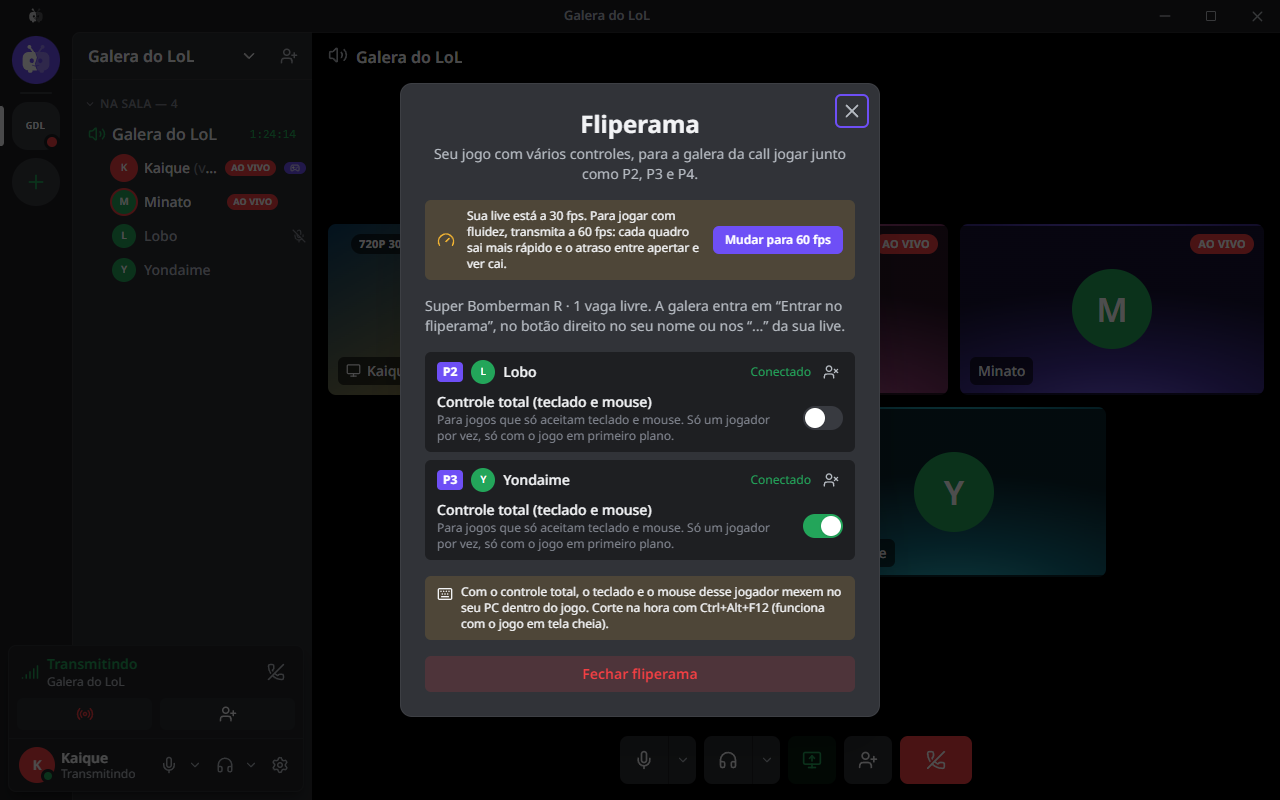
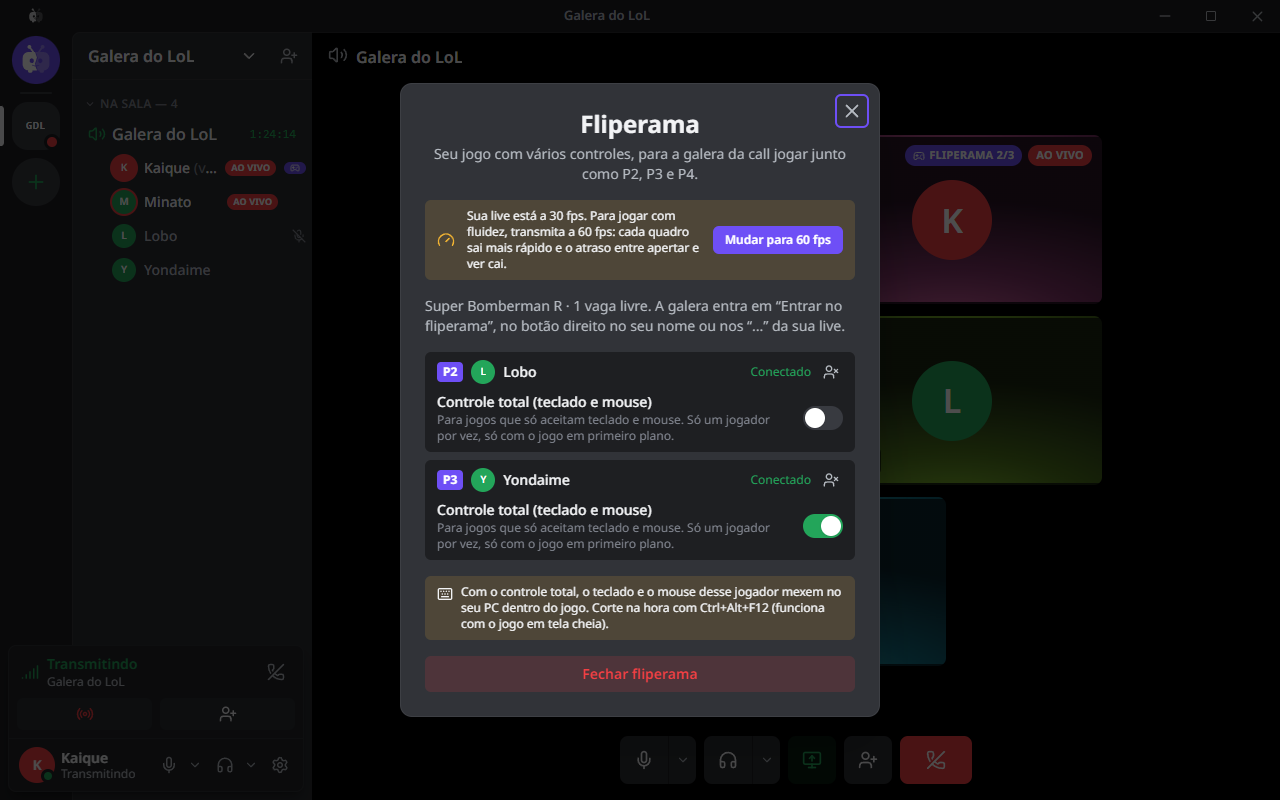
docs(docs): atualiza o README e as capturas para a versão 0.14

diff --git a/README.md b/README.md
@@ -35,7 +35,7 @@
 </p>
 
 > [!NOTE]
-> **Versão 0.11: o Fliperama.** Transmitindo um jogo com vários controles (Bomberman, jogos de luta, party games), abra o **Fliperama** no menu da sua live: até 3 amigos da call entram como P2, P3 e P4 e jogam pela rede, com controle de Xbox, com o teclado (que vira controle) ou com o mouse (que vira o analógico direito). Para jogos só de teclado e mouse, dê o **controle total** a um jogador por vez, com corte em Ctrl+Alt+F12. Também nesta versão: uma queda rápida da conexão não tira mais ninguém da sala nem derruba a voz, quem sai e volta não aparece duas vezes, e um código de sala que não existe avisa "Código inválido" em vez de criar uma sala vazia. **Na 0.11.1:** o botão do jogador chega ao jogo do host com menos de 1 ms de atraso no app (era 9 ms), um selo FLIPERAMA mostra para todos que o fliperama está aberto, e a live termina sozinha quando você fecha o programa que estava transmitindo. **Na 0.12:** dá para entrar no fliperama também pelos "..." da live de quem hospeda, quem entra é sempre o P2 em diante (o P1 é quem hospeda) e a live mostra as teclas que viram cada botão do controle; o tempo da sala conta de quando ela deixou de estar vazia (sair e voltar não zera mais); quem vê a sala do servidor de fora vê quem está mudo ou silenciado; sair da sala encerra a sua live, e o vídeo dela acompanha o quadro na faixa de participantes; o app passa a usar a Noto Sans, com os tamanhos e pesos de texto do Discord; e, com o app aberto, a versão nova aparece também quando você volta para a janela. **Na 0.13:** de fora de uma sala do servidor, você vê todo mundo que está nela, como no Discord, inclusive quem entrou só com o código, com o mudo e o silenciado de cada um. Achou um problema? [Abra uma issue](https://github.com/Kaique292/squadview/issues).
+> **Versão 0.11: o Fliperama.** Transmitindo um jogo com vários controles (Bomberman, jogos de luta, party games), abra o **Fliperama** no menu da sua live: até 3 amigos da call entram como P2, P3 e P4 e jogam pela rede, com controle de Xbox, com o teclado (que vira controle) ou com o mouse (que vira o analógico direito). Para jogos só de teclado e mouse, dê o **controle total** a um jogador por vez, com corte em Ctrl+Alt+F12. Também nesta versão: uma queda rápida da conexão não tira mais ninguém da sala nem derruba a voz, quem sai e volta não aparece duas vezes, e um código de sala que não existe avisa "Código inválido" em vez de criar uma sala vazia. **Na 0.11.1:** o botão do jogador chega ao jogo do host com menos de 1 ms de atraso no app (era 9 ms), um selo FLIPERAMA mostra para todos que o fliperama está aberto, e a live termina sozinha quando você fecha o programa que estava transmitindo. **Na 0.12:** dá para entrar no fliperama também pelos "..." da live de quem hospeda, quem entra é sempre o P2 em diante (o P1 é quem hospeda) e a live mostra as teclas que viram cada botão do controle; o tempo da sala conta de quando ela deixou de estar vazia (sair e voltar não zera mais); quem vê a sala do servidor de fora vê quem está mudo ou silenciado; sair da sala encerra a sua live, e o vídeo dela acompanha o quadro na faixa de participantes; o app passa a usar a Noto Sans, com os tamanhos e pesos de texto do Discord; e, com o app aberto, a versão nova aparece também quando você volta para a janela. **Na 0.13:** de fora de uma sala do servidor, você vê todo mundo que está nela, como no Discord, inclusive quem entrou só com o código, com o mudo e o silenciado de cada um. **Na 0.14:** a sala passa a distribuir o vídeo: quem assiste repassa uma parte da live para os outros, e quem transmite não precisa mandar uma cópia inteira para cada um. Quem está com a internet fraca recebe 720p30 sem atrapalhar os outros. No Fliperama, controles de PlayStation e Switch funcionam, cada jogador vê se o controle dele foi achado, e quem hospeda sem controle continua sendo o P1 no jogo (o amigo é o P2 de verdade). Também: a grade da sala cabe inteira na janela, mesmo larga e baixa. Achou um problema? [Abra uma issue](https://github.com/Kaique292/squadview/issues).
 
 ## ✨ O que ele faz
 
@@ -47,8 +47,10 @@
 - **Só o áudio do jogo.** Transmitindo um jogo ou app, vai só o som dele, e o som acompanha quando o jogo troca de janela; o som da call fica de fora.
 - **A sua live na sala**, como no Discord: transmitindo, a sua tela vira um quadro da sala, com a qualidade e o AO VIVO no canto, desenhados por cima da imagem sem esconder nada dela. Clique para pôr em foco, dois cliques para a tela cheia e o botão direito para parar, trocar o que transmite, mudar a qualidade ou ligar e desligar o som, sem sair do ar. Fechou o programa que estava transmitindo? A live termina sozinha. Os detalhes mostram o último minuto em gráficos (fps, bitrate, latência e encode) e o uso da GPU e da CPU em barras.
 - **Assista várias lives ao mesmo tempo**, como no Discord: cada live que você assiste vira um quadro da sala, igual ao da sua, e dá para assistir até 4 de uma vez. Clique para pôr em foco, dois cliques para a tela cheia e o botão direito (ou os "...") para o volume de até 200%, silenciar, parar de assistir e os detalhes (fps, bitrate, latência e ping em gráficos). No topo da sala aparecem quem transmite e as fotos de quem está assistindo; passe o mouse para ver a lista. Quer jogar enquanto assiste? Mande a live para uma **janelinha por cima de tudo** (picture in picture), com silenciar, volume e voltar para o app ao passar o mouse.
-- **Fliperama: o seu jogo local, online.** Transmitindo um jogo de vários controles, abra o Fliperama no menu da sua live e até 3 amigos da call entram como **P2, P3 e P4** pelo botão direito no seu nome ou pelos "..." da sua live. Cada um joga com o controle de Xbox dele, com o teclado (que vira controle, com as teclas que ele escolher e uma legenda na live) ou com o mouse preso no jogo (que vira o analógico direito). Para jogos só de teclado e mouse, você dá o **controle total** a um jogador por vez: só vale com a janela do jogo na frente, as teclas do Windows ficam bloqueadas e Ctrl+Alt+F12 corta na hora. Um selo **FLIPERAMA** mostra para todos que o fliperama está aberto e quantos jogam. Do botão do jogador ao controle no PC de quem hospeda, o app acrescenta menos de 1 ms. Só quem hospeda instala o driver de controle (ViGEmBus), e dá para remover quando quiser em Configurações › Fliperama ([ADR 0023](docs/adr/0023-modo-fliperama.md) e [0024](docs/adr/0024-fliperama-teclado-e-mouse.md)).
+- **Fliperama: o seu jogo local, online.** Transmitindo um jogo de vários controles, abra o Fliperama no menu da sua live e até 3 amigos da call entram como **P2, P3 e P4** pelo botão direito no seu nome ou pelos "..." da sua live. Cada um joga com o controle dele (Xbox, PlayStation, Switch ou genérico, e a live mostra qual foi achado), com o teclado (que vira controle, com as teclas que ele escolher e uma legenda na live) ou com o mouse preso no jogo (que vira o analógico direito). Para jogos só de teclado e mouse, você dá o **controle total** a um jogador por vez: só vale com a janela do jogo na frente, as teclas do Windows ficam bloqueadas e Ctrl+Alt+F12 corta na hora. Sem controle no seu PC, um controle parado guarda o P1 para você, e o amigo vira o P2 de verdade no jogo. Se o jogo sair da frente ou o Windows não aceitar o controle de alguém, o app avisa. Um selo **FLIPERAMA** mostra para todos que o fliperama está aberto e quantos jogam. Do botão do jogador ao controle no PC de quem hospeda, o app acrescenta menos de 1 ms. Só quem hospeda instala o driver de controle (ViGEmBus), e dá para remover quando quiser em Configurações › Fliperama ([ADR 0023](docs/adr/0023-modo-fliperama.md), [0024](docs/adr/0024-fliperama-teclado-e-mouse.md) e [0031](docs/adr/0031-controles-alem-do-xbox-e-p1-guardado.md)).
 - **Funciona atrás de CGNAT.** Se a conexão direta não fecha (internet da operadora, 4G), o app tenta por IPv6 e, se ainda não der, recebe o vídeo por alguém da sala que já está assistindo. A voz faz o mesmo: se dois amigos não se alcançam, outro membro da sala repassa a voz entre eles, assinada com uma chave que só os dois conhecem ([ADR 0020](docs/adr/0020-voz-repassada-pela-sala.md)). Tudo de graça, sem servidor no meio; há também um repassador na nuvem pronto para ligar ([ADR 0014](docs/adr/0014-conexao-em-camadas.md)).
+- **A sala distribui o vídeo.** Como num torrent, mas com atraso de call: a live é cortada em 4 faixas e uma de paridade, e quem assiste repassa a sua faixa para os outros. Com 4 das 5 faixas, a imagem se refaz. Se alguém sai, só quem dependia dele troca de quem recebe, sem congelar (no simulador, 370 a 390 ms no p95, com 1.000 e 5.000 pessoas). Por enquanto, a malha usa só a qualidade principal e uma estimativa do upload de cada um ([ADR 0028](docs/adr/0028-faixas-e-paridade-no-envio.md), [0029](docs/adr/0029-troca-de-pai-na-malha.md) e [0030](docs/adr/0030-malha-na-rede-da-sala.md)).
+- **Internet fraca não derruba ninguém.** Quem transmite liga um segundo encode, em 720p30, só enquanto alguém precisa, e quem está perdendo pacotes passa para ele sem a imagem congelar. Os outros continuam na qualidade principal. Por enquanto, a troca vale para quem recebe direto de quem transmite ([ADR 0026](docs/adr/0026-simulcast-com-2-camadas.md)).
 - **Chat de voz na sala.** A sala é um canal de voz como o do Discord: um quadro por pessoa, cada um com o seu fundo em degradê, borda verde (ou o efeito que você escolher, com a cor que quiser; quando duas pessoas falam lado a lado, as cores se misturam onde os efeitos se tocam) em quem fala, mudo e surdo, e clique num quadro para pôr a pessoa em foco. Volume e silenciar por pessoa (só para você), isolamento de voz contra teclado e ventilador e controle automático de ganho, para todo mundo chegar no mesmo volume. A voz também vai direto de PC para PC.
 - **Amigos.** Veja quem está online, numa sala ou transmitindo. Peça para entrar na sala de um amigo (qualquer pessoa da sala aceita), chame amigos para a sua e marque quem entra direto. Adicione direto pelo botão direito em quem está na sala com você, ou depois, em Recentes.
 - **Servidores com salas fixas.** Crie um servidor para a turma, com salas de voz que ficam lá mesmo vazias. A lateral mostra todo mundo que está em cada sala (membro do servidor ou não, como no Discord), quem está mudo ou silenciado e quem está ao vivo, mesmo com você fora dela, o ícone do servidor ganha um alto-falante quando tem gente em call, e quem é do servidor entra direto, sem pedir permissão. Chame a galera por um link de convite clicável, escolha administradores e dê um ícone ao servidor, ajustando o recorte, a posição e o zoom. O botão direito no ícone do servidor abre o menu dele.
@@ -64,8 +66,6 @@
 
 **Em breve**
 
-- **A sala distribui o vídeo (Fase 3).** A própria sala repassa o vídeo como um torrent, mas com atraso de call: com 5.000 pessoas, cerca de 60 ms de rede, e quem transmite manda sempre só 2 cópias ([ADR 0012](docs/adr/0012-malha-em-enxame.md)).
-- **Internet fraca não derruba ninguém (Fase 3).** Quem está com conexão ruim recebe 720p, e o resto continua em 1080p.
 - **Bot do Discord (Fase 5)** avisando no servidor quando alguém começar a transmitir.
 
 ## 📸 Telas
@@ -244,9 +244,9 @@ As miniaturas das janelas usam o crate `jpeg-encoder`: _this software is based i
 
 **SquadView** is a free, open-source Windows app for sharing your screen with friends on a call: game quality (1080p60), low latency and almost no FPS impact, thanks to hardware encoding (NVENC/AMF via Media Foundation) with a zero-copy GPU pipeline.
 
-There is **no media server**: video goes directly between PCs over QUIC, with UDP hole punching. The plan (Phase 3) is for the room itself to distribute the video: members with spare upload relay already-encoded packets, and members on weak connections get a 720p layer. A tiny free signaling service (Cloudflare Worker) only helps peers find each other; no video goes through it.
+There is **no media server**: video goes directly between PCs over QUIC, with UDP hole punching. The room itself distributes the video: each stream is split into 4 stripes plus parity, members relay their stripe to others (any 4 of the 5 rebuild the picture), and members on weak connections get a 720p30 layer. A tiny free signaling service (Cloudflare Worker) only helps peers find each other; no video goes through it.
 
-- **Status:** version 0.13.0. New: the **Arcade** mode turns a local multiplayer game into an online one: up to 3 friends on the call join as P2–P4 and play with their Xbox controller, keyboard (mapped to a controller) or mouse (right stick), through virtual Xbox controllers (ViGEmBus) on the host's PC; the host can hand "full control" of keyboard and mouse to one player at a time, only while the game window is in front, with Ctrl+Alt+F12 to cut it. Short signaling drops are now invisible: the app rejoins the room with the same seat, without dropping voice. One friend streams and the rest of the room watches inside the app, directly PC to PC (NVIDIA and AMD), with a live viewer count. Members behind CGNAT connect over IPv6 or get the stream relayed by someone already watching; an optional cloud TURN relay is ready to turn on. The room is a Discord-like voice channel (peer-to-peer Opus voice with noise suppression), with friends, presence, "ask to join" requests, custom speaking effects that blend where they touch, picture-in-picture, notification sounds and a system tray icon. Watch up to 4 streams at once, each one a tile in the room with its own volume, mute, fullscreen, picture-in-picture (with hover controls) and stats. Video is drawn underneath the interface with DirectComposition, so badges, menus and animations blend over the stream. When two members can't reach each other (CGNAT), a third member relays their voice, signed end to end so the relay can't forge it. Rooms have no member limit. Servers with persistent voice rooms (showing who is in each room, with members joining directly), clickable invite links, roles and cropped icons; private peer-to-peer messages with files, emoji reactions and replies (no server in between, history kept locally). Discord login, invite links, Rich Presence and a silent Discord-style installer. Your own stream shows up as a tile in the room (Discord-style), with a right-click menu to stop, switch source, change quality or toggle audio without going offline, and a details view with live charts. Full room-wide relaying (mesh) is Phase 3. See the [roadmap](docs/roadmap.md).
+- **Status:** version 0.14.0. New: the room distributes the video as a mesh (stripes, parity and local repair when someone leaves), and viewers on weak connections get 720p30 without affecting the others. The **Arcade** mode now reads PlayStation, Switch and generic controllers, shows each player which controller was found, and keeps P1 for a host without a controller. Earlier: the **Arcade** mode turns a local multiplayer game into an online one: up to 3 friends on the call join as P2–P4 and play with their controller, keyboard (mapped to a controller) or mouse (right stick), through virtual Xbox controllers (ViGEmBus) on the host's PC; the host can hand "full control" of keyboard and mouse to one player at a time, only while the game window is in front, with Ctrl+Alt+F12 to cut it. Short signaling drops are now invisible: the app rejoins the room with the same seat, without dropping voice. One friend streams and the rest of the room watches inside the app, directly PC to PC (NVIDIA and AMD), with a live viewer count. Members behind CGNAT connect over IPv6 or get the stream relayed by someone already watching; an optional cloud TURN relay is ready to turn on. The room is a Discord-like voice channel (peer-to-peer Opus voice with noise suppression), with friends, presence, "ask to join" requests, custom speaking effects that blend where they touch, picture-in-picture, notification sounds and a system tray icon. Watch up to 4 streams at once, each one a tile in the room with its own volume, mute, fullscreen, picture-in-picture (with hover controls) and stats. Video is drawn underneath the interface with DirectComposition, so badges, menus and animations blend over the stream. When two members can't reach each other (CGNAT), a third member relays their voice, signed end to end so the relay can't forge it. Rooms have no member limit. Servers with persistent voice rooms (showing who is in each room, with members joining directly), clickable invite links, roles and cropped icons; private peer-to-peer messages with files, emoji reactions and replies (no server in between, history kept locally). Discord login, invite links, Rich Presence and a silent Discord-style installer. Your own stream shows up as a tile in the room (Discord-style), with a right-click menu to stop, switch source, change quality or toggle audio without going offline, and a details view with live charts. The mesh still uses only the main layer and an estimated upload per member. See the [roadmap](docs/roadmap.md).
 - **Stack:** Rust core, Tauri v2, React 19 + Tailwind v4, QUIC (quinn) peer-to-peer mesh, Cloudflare Worker for signaling.
 - **Contributing:** PRs target the `dev` branch and use [Conventional Commits](https://www.conventionalcommits.org/). Docs are in Portuguese; issues and PRs in English are welcome too.
 - **Support:** [Buy Me a Coffee](https://buymeacoffee.com/kaiqueamaral).

diff --git a/docs/roadmap.md b/docs/roadmap.md
@@ -2,7 +2,7 @@
 
 Status: ⬜ não começou · 🟨 em andamento · ✅ concluída
 
-Onde estamos (v0.10): a Fase 0 fechou. Na Fase 1, o pipeline funciona com NVIDIA e AMD (League of Legends: 59 fps transmitidos, ~5 ms de captura até o encode), mas falta medir a perda de FPS do jogo com PresentMon em mais um jogo. Na Fase 2, a conexão direta, o hole punching e os repasses de reserva já estão no ar; faltam o NACK e o teste com um amigo em outra rede, medindo a latência. Na Fase 3 já entraram o planejador e o simulador da malha, o IPv6, o repasse do vídeo e da voz por um membro da sala e a sala sem limite de pessoas; falta a sala distribuir o vídeo de verdade (faixas, simulcast, troca de pai). Na Fase 4, entraram servidores com salas fixas e presença, conversas privadas, picture in picture com controles, efeitos de fala, várias lives ao mesmo tempo, o vídeo desenhado por baixo da interface e reações e respostas nas conversas. Na Fase 5, já saíram o AMF (pelo Media Foundation) e o Rich Presence.
+Onde estamos (v0.14): a Fase 0 fechou. Na Fase 1, o pipeline funciona com NVIDIA e AMD (League of Legends: 59 fps transmitidos, ~5 ms de captura até o encode), mas falta medir a perda de FPS do jogo com PresentMon em mais um jogo. Na Fase 2, a conexão direta, o hole punching e os repasses de reserva já estão no ar; faltam o NACK e o teste com um amigo em outra rede, medindo a latência. Na Fase 3 já entraram o planejador e o simulador da malha, o IPv6, o repasse do vídeo e da voz por um membro da sala e a sala sem limite de pessoas; a sala já distribui o vídeo (faixas, simulcast e troca de pai), e faltam medir o upload de cada membro e levar as duas camadas para a malha. Na Fase 4, entraram servidores com salas fixas e presença, conversas privadas, picture in picture com controles, efeitos de fala, várias lives ao mesmo tempo, o vídeo desenhado por baixo da interface e reações e respostas nas conversas. Na Fase 5, já saíram o AMF (pelo Media Foundation) e o Rich Presence.
 
 | Fase               | Status | Entrega                                                        | Critério de saída                                                                      |
 | ------------------ | ------ | -------------------------------------------------------------- | -------------------------------------------------------------------------------------- |
